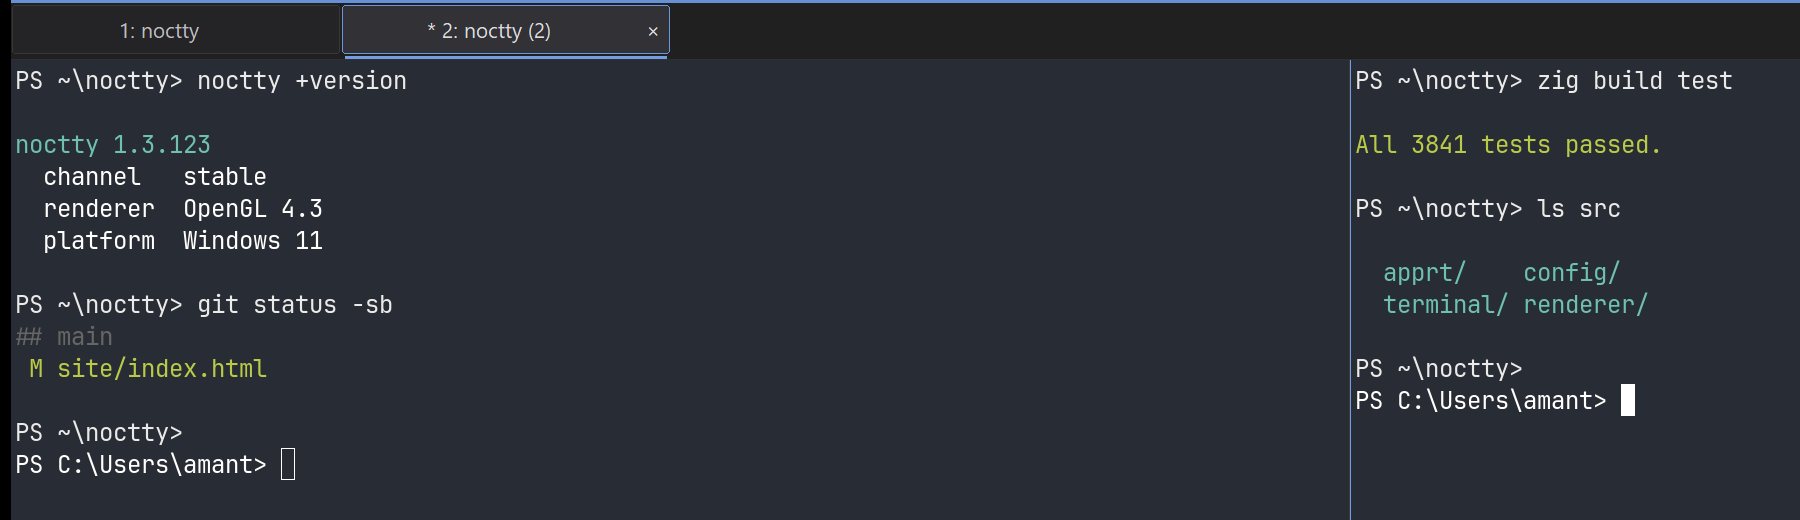
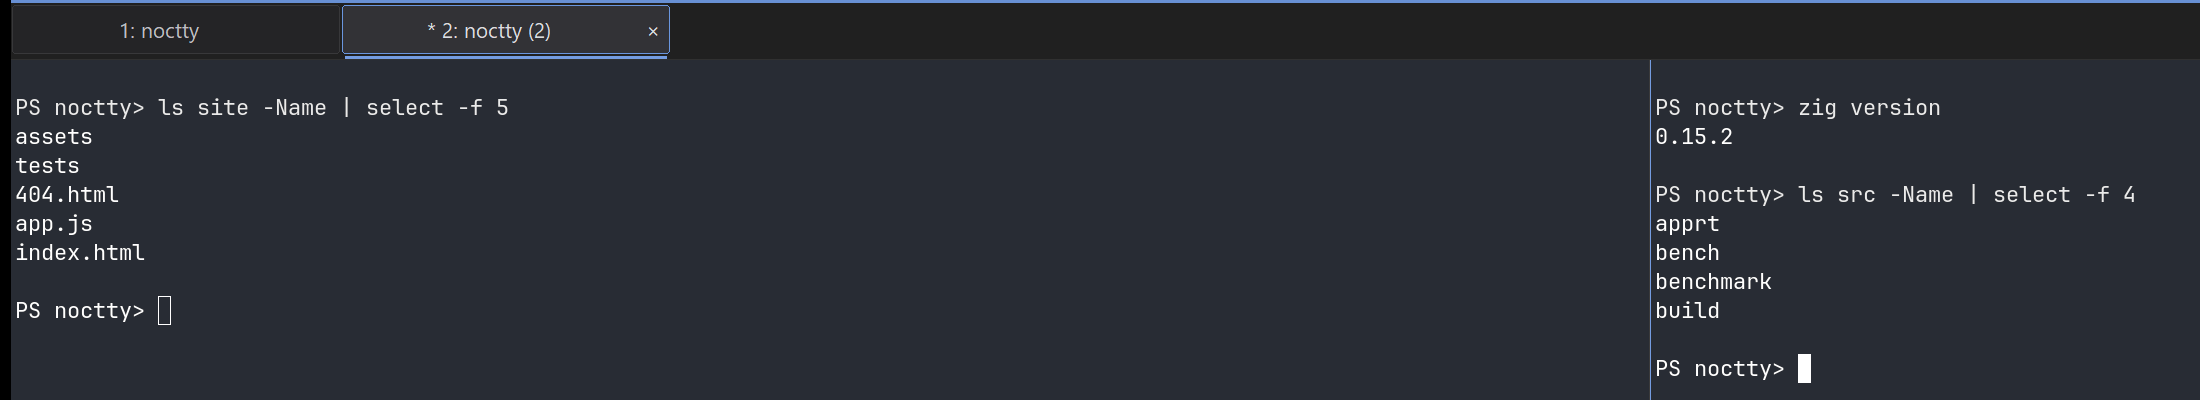
Recapture the screenshot with real command output
Codex review caught that the capture showed "zig build test" followed by
"All 3841 tests passed." Bare `zig build test` errors in this fork — it
requires -Dtest-filter or -Demit-test-exe=true, as AGENTS.md states and
as re-verified here — so the command could not have produced that output,
and anyone copying it from the site would hit an error. The test count was
wrong too: the real full-suite run is 3770 passed, 70 skipped, and one
pre-existing environment failure.

The underlying problem was that the pane content was printed by a staged
script, so it only looked like a session. The panes now execute real
commands and the capture shows their actual output: `zig version` ->
0.15.2, and two `ls` listings of real project directories. Nothing in the
frame is asserted rather than observed.

Two incidental fixes in the same capture: a short custom prompt replaces
the full worktree path, which had been exposing "winghostty" — the old
brand — in a screenshot for the rebranded product; and the window is wider
with a smaller font so no line clips at a pane edge.

Figure metadata follows the new asset: intrinsic size 1600x290, and the
alt text and caption now describe what is actually shown instead of a
build-info pane.

diff --git a/site/index.html b/site/index.html
@@ -222,9 +222,9 @@
           </ul>
         </div>
         <figure class="nc-figure">
-          <img class="nc-shot nc-specimen" src="assets/app-window.webp" width="1600" height="462" loading="lazy" decoding="async"
-               alt="Noctty running on Windows with two tabs and a vertical split, showing a build-info pane beside a shell." />
-          <figcaption class="nc-figure__caption">Two tabs, one vertical split, restored on launch.</figcaption>
+          <img class="nc-shot nc-specimen" src="assets/app-window.webp" width="1600" height="290" loading="lazy" decoding="async"
+               alt="Noctty running on Windows with two tabs and a vertical split, each pane showing a PowerShell session listing project directories." />
+          <figcaption class="nc-figure__caption">Two tabs and a vertical split, restored on launch.</figcaption>
         </figure>
       </article>
 
